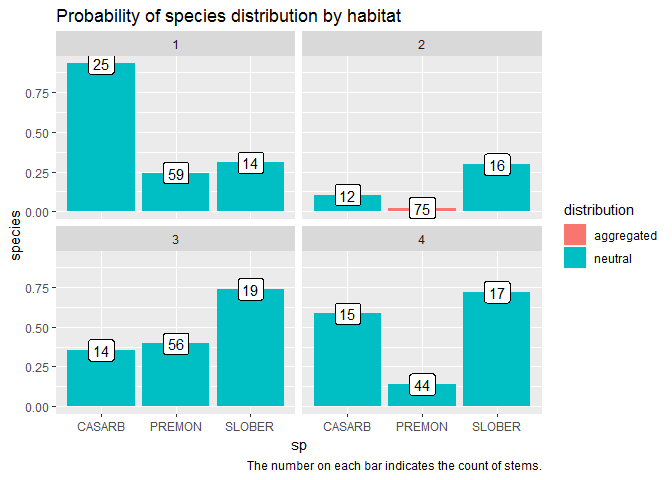
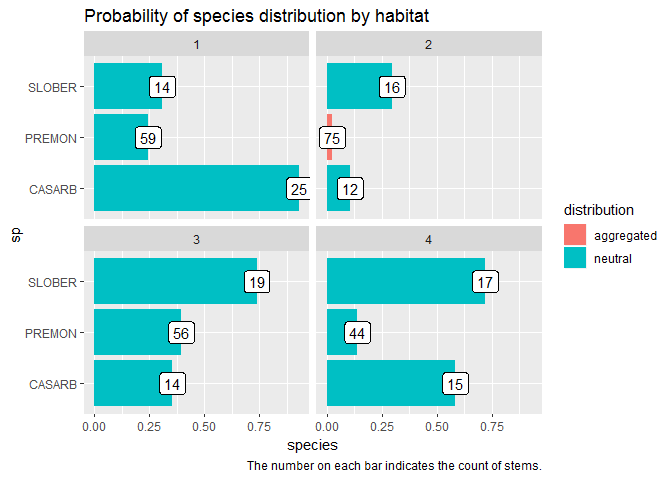
Flip plot to fit more species.

diff --git a/inst/issues/restructure_tt_output/restructure_tt_out.md b/inst/issues/restructure_tt_output/restructure_tt_out.md
@@ -120,8 +120,7 @@ filter(tt_df, distribution == "neutral")
 The restructured output is easier to visualize.
 
 ``` r
-tt_df %>% 
-  ggplot(aes(sp, probability)) + 
+ggplot(tt_df, aes(sp, probability)) + 
   geom_col(aes(fill = distribution), position = "dodge") +
   geom_label(aes(label = stem_count)) +
   facet_wrap(vars(habitat)) +
@@ -129,7 +128,8 @@ tt_df %>%
     title = "Probability of species distribution by habitat",
     y = "species", 
     caption = "The number on each bar indicates the count of stems."
-  )
+  ) +
+  coord_flip()
 ```
 
 ![](restructure_tt_out_files/figure-gfm/unnamed-chunk-5-1.png)<!-- -->
